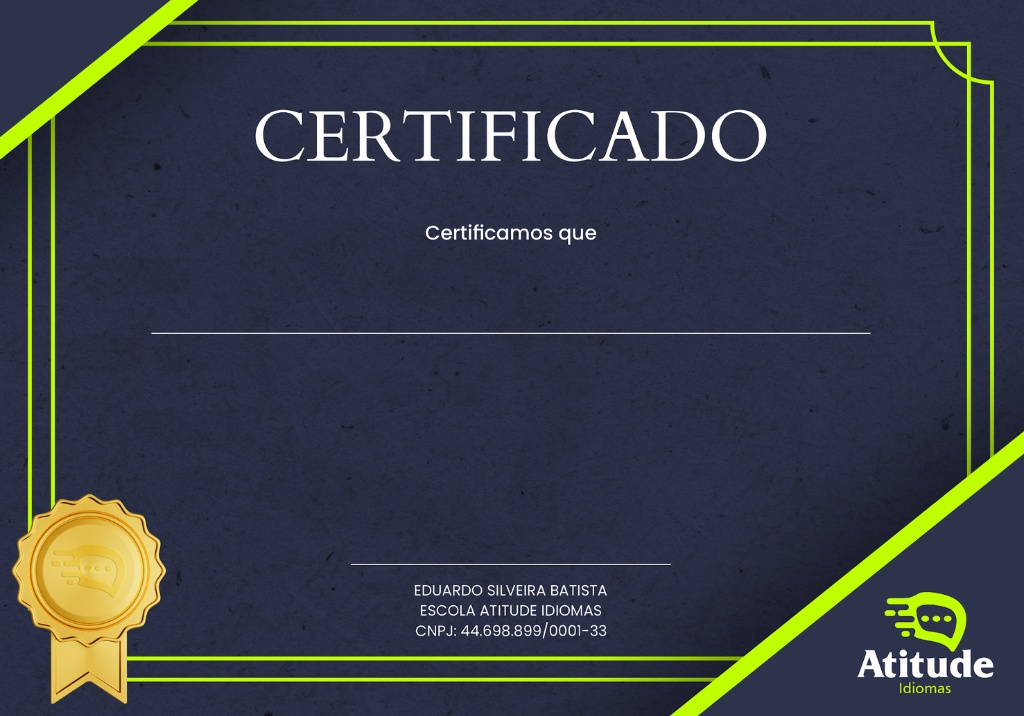
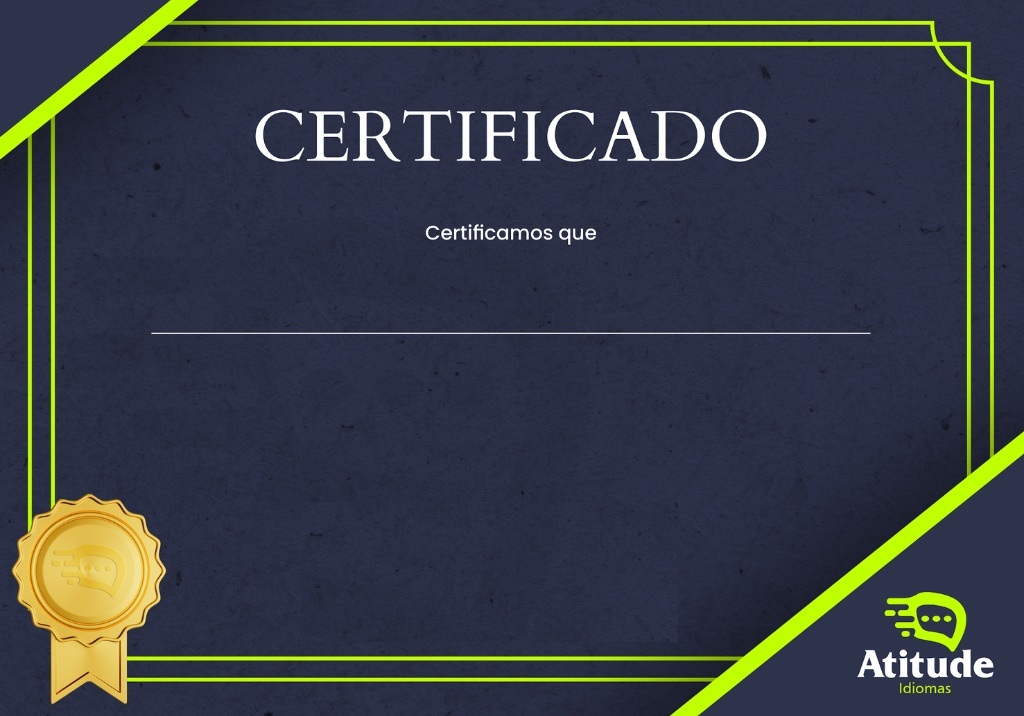
.

Changed region(s): [[0.4062, 0.7989, 0.5938, 0.8911]]

diff --git a/resources/views/certificates/default.blade.php b/resources/views/certificates/default.blade.php
@@ -87,6 +87,41 @@
             padding-top: 10px;
             width: 400px;
         }
+
+        /* Container das Assinaturas */
+        .assinaturas-container {
+            position: absolute;
+            bottom: 120px;
+            /* Ajuste para alinhar com as linhas da imagem */
+            width: 100%;
+            text-align: center;
+        }
+
+        .assinatura-box {
+            display: inline-block;
+            width: 40%;
+            /* Divide o espaço entre as duas assinaturas */
+            vertical-align: top;
+            margin: 0 20px;
+        }
+
+        .assinatura-img {
+            height: 70px;
+            /* Altura fixa para manter proporção */
+            width: auto;
+            margin-bottom: -10px;
+            opacity: 0.9;
+        }
+
+        .dados-assinatura {
+            font-size: 11px;
+            /* Fonte menor para caber no layout */
+            color: #ffffff;
+            line-height: 1.4;
+            text-transform: uppercase;
+            border-top: 1px solid rgba(255, 255, 255, 0.3);
+            padding-top: 5px;
+        }
     </style>
 </head>
 
@@ -99,19 +134,27 @@
     <div class="texto-conclusao">
         Concluiu com êxito o <strong>{{ $module }}</strong> do curso de
         <strong>{{ $course }}</strong> da Escola Atitude Idiomas,
-        com carga horária de 50 horas.
+        com carga horária de {{ $hours }} horas.
     </div>
 
-    <div class="footer-info">
-        <div>
-            <img src="{{ public_path('img/assinatura.png') }}" class="assinatura-img" alt="Assinatura">
+    <div class="assinaturas-container">
+        <div class="assinatura-box">
+            <img src="{{ public_path('img/assinatura_diretor.png') }}" class="assinatura-img">
+            <div class="dados-assinatura">
+                <strong>EDUARDO SILVEIRA BATISTA</strong><br>
+                DIRETOR - ESCOLA ATITUDE IDIOMAS<br>
+                CNPJ: 44.698.899/0001-33
+            </div>
         </div>
 
-        {{-- <div class="dados-empresa">
-            EDUARDO SILVEIRA BATISTA<br>
-            ESCOLA ATITUDE IDIOMAS<br>
-            CNPJ: 44.698.899/0001-33
-        </div> --}}
+        <div class="assinatura-box">
+            <img src="{{ public_path('img/assinatura_coord.png') }}" class="assinatura-img">
+            <div class="dados-assinatura">
+                <strong>CAROLINA TONELOTTO LORENZONI</strong><br>
+                COORDENADORA<br>
+                ESCOLA ATITUDE IDIOMAS
+            </div>
+        </div>
     </div>
 
 </body>

diff --git a/routes/web.php b/routes/web.php
@@ -112,7 +112,8 @@ Route::get('/modulo/{class}/certificado', function (ClassModel $class) {
         'student' => $student,
         'module'  => $class->name,
         'course'  => $class->course->name ?? 'Curso Atitude Idiomas',
-        'date'    => now()->format('d/m/Y')
+        'date'    => now()->format('d/m/Y'),
+        'hours'   => $class->lessons()->count() * 1.0, // Você pode calcular isso dinamicamente com base nas aulas do módulo
     ];
 
     $pdf = Pdf::loadView('certificates.default', $data)
